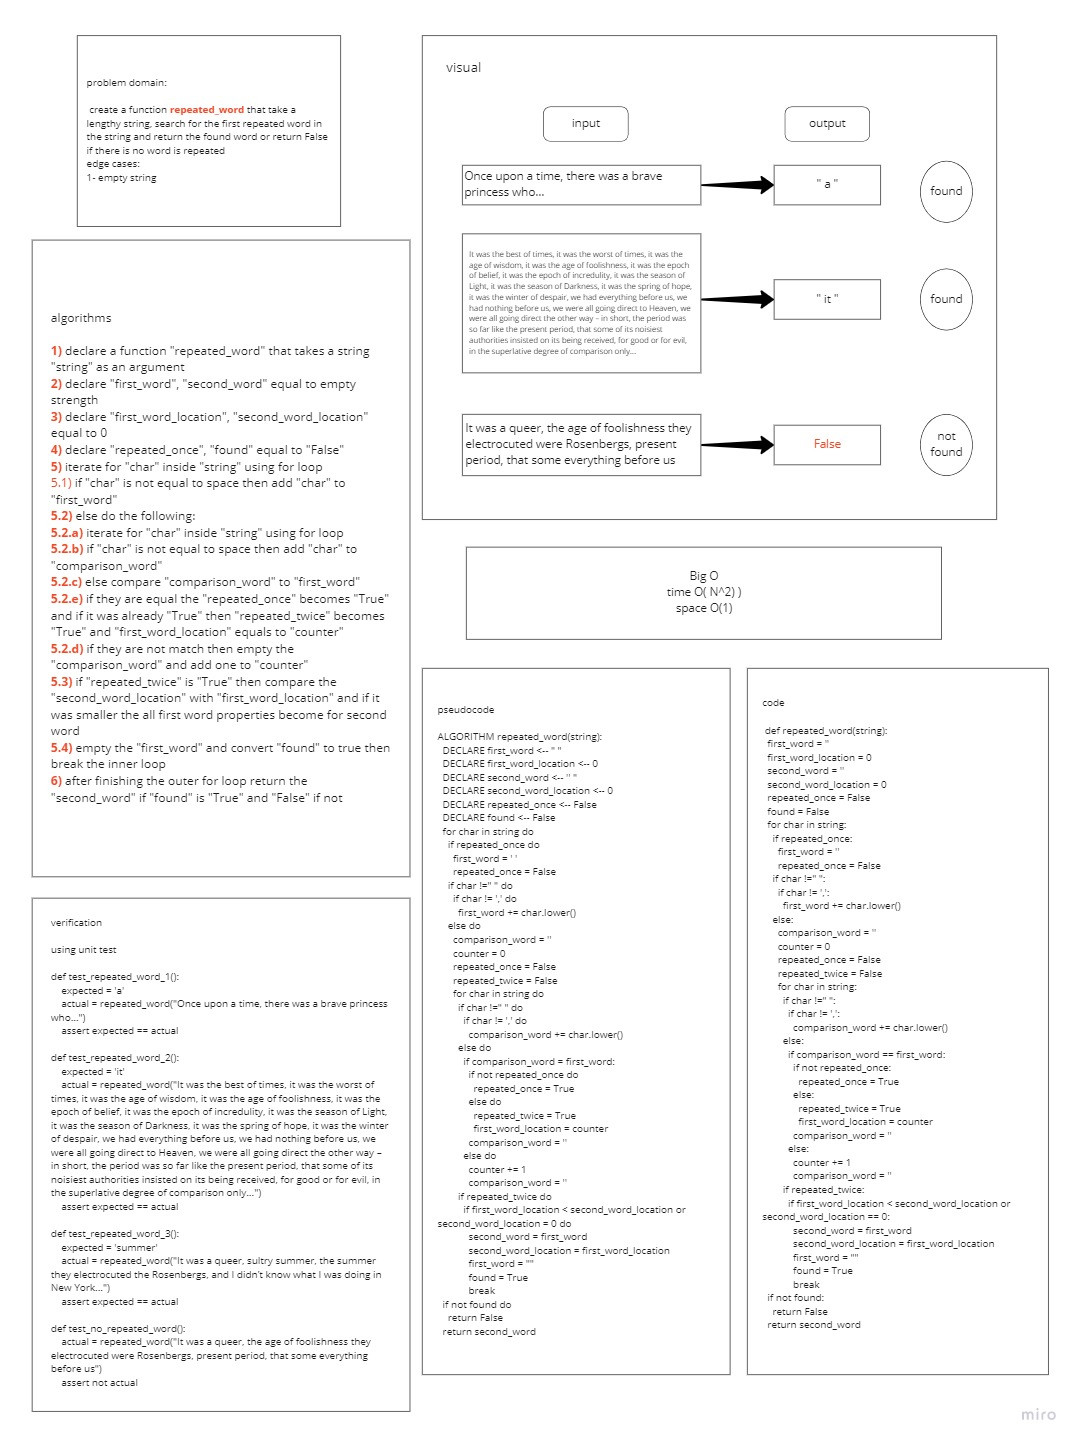
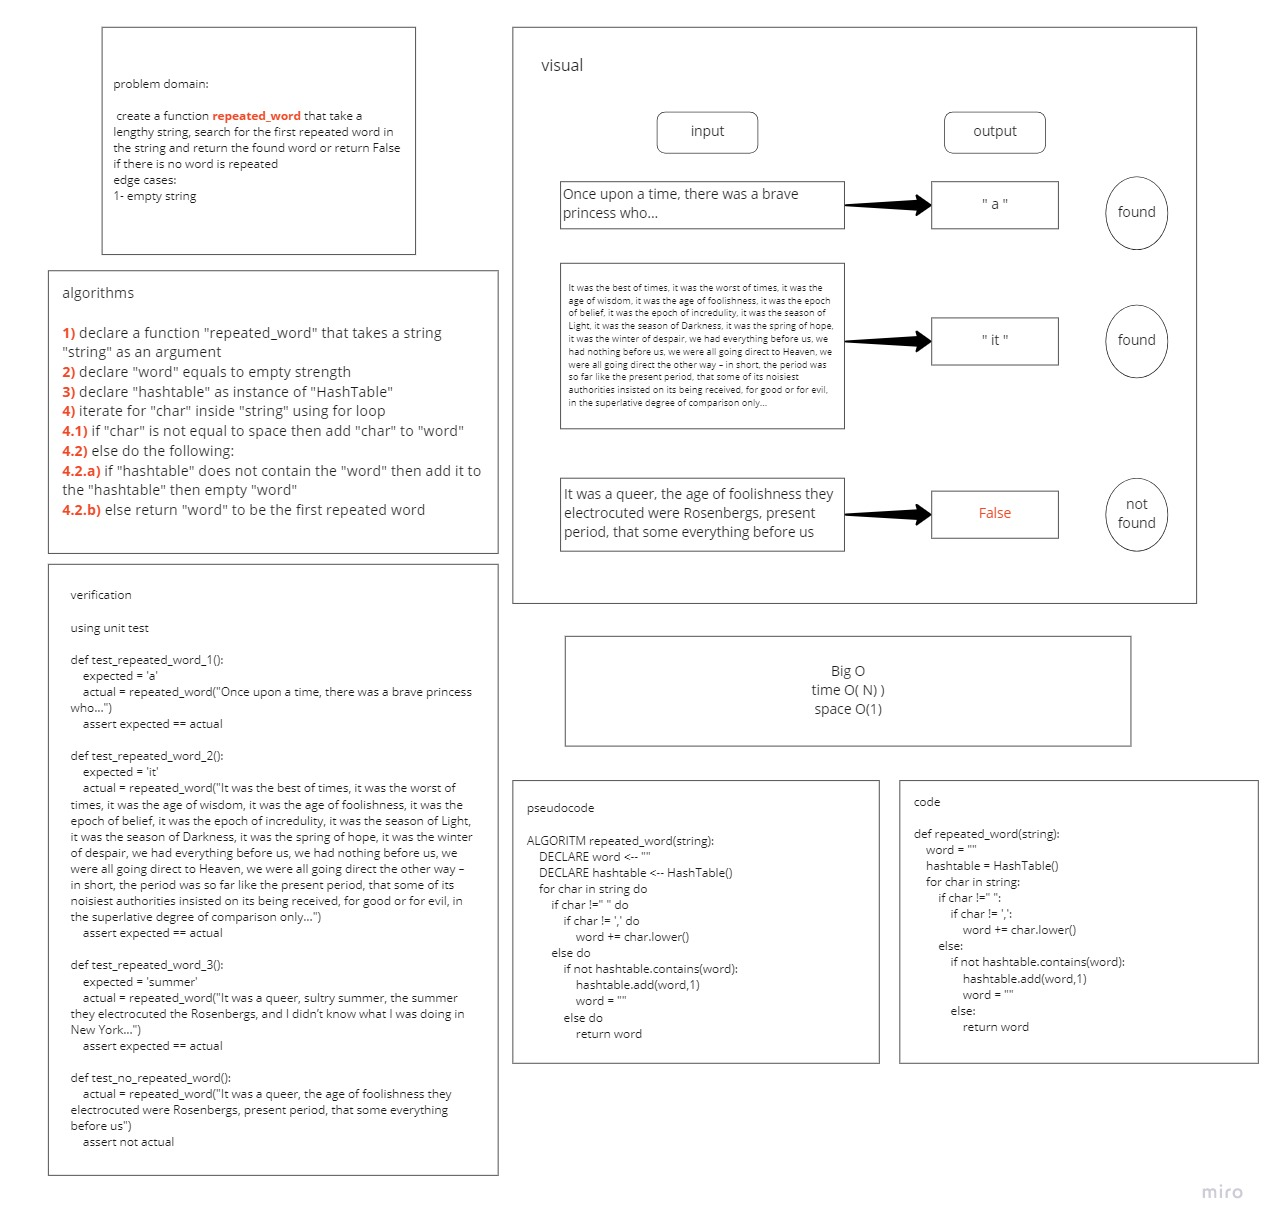
challenge solution is modified

diff --git a/python/code_challenges/repeated_word/linked_list.py b/python/code_challenges/repeated_word/linked_list.py
@@ -1,0 +1,124 @@
+class Node:
+    def __init__(self,data):
+        self.data = data
+        self.next = None
+
+    def __str__(self):
+        return f"{self.data}"
+
+class Linked_List:
+    def __init__(self):
+        self.head = None
+
+    def insert(self,value):
+        node = Node(value)
+        node.next = self.head
+        self.head = node
+        return f"{node.data} is inserted"
+
+    def includes(self,value):
+        included = False
+        current_node = self.head
+        while current_node:
+            if current_node.data[0] == value:
+                included = True
+                break
+            current_node = current_node.next
+        return included
+
+    def __str__(self):
+        if self.head:
+            if type(self.head.data) == int:
+                charr1 = "["
+                charr2 = "]"
+            else:
+                charr1 = "{"
+                charr2 = "}"
+            stored_data = "head -> "f"{charr1}{self.head.data}{charr2} "
+            current_node = self.head
+            while current_node:
+                current_node = current_node.next
+                if current_node:
+                    if type(current_node.data) == int:
+                        charr1 = "["
+                        charr2 = "]"
+                    else:
+                            charr1 = "{"
+                            charr2 = "}"
+                    stored_data += "-> "f"{charr1}{current_node}{charr2} "
+                else:
+                    stored_data += "-> X"
+        else:
+            return "head -> X"
+        return stored_data
+
+    def append(self,value):
+        if self.head is not None:
+            current = self.head
+            while (current):
+                if current.next == None:
+                    current.next = Node(value)
+                    break
+                current = current.next
+        else:
+            self.head = Node(value)
+        return value
+
+    def insert_before(self,value,new_value):
+        not_found = True
+        current = self.head
+        if current.data == value:
+            new_node = Node(new_value)
+            new_node.next = current
+            self.head = new_node
+            not_found = False
+        else:
+            while (current.next):
+                if current.next.data == value:
+                    new_node = Node(new_value)
+                    new_node.next = current.next
+                    current.next = new_node
+                    not_found = False
+                    break
+                current = current.next
+        if not_found:
+            raise ValueError
+
+    def insert_after(self,value,new_value):
+        not_found = True
+        current = self.head
+        while (current):
+            if current.data == value:
+                new_node = Node(new_value)
+                new_node.next = current.next
+                current.next = new_node
+                not_found = False
+                break
+            current = current.next
+        if not_found:
+            raise ValueError
+
+    def kth_from_end(self,k):
+        not_found = True
+        current = self.head
+        counter = 0
+        value = 0
+        while (current):
+            if current.data:
+                counter += 1
+            current = current.next
+        current = self.head
+        index_counter = counter - 1
+        for num in range(0,counter):
+            if index_counter == k:
+                not_found = False
+                value = current.data
+                break
+            else:
+                index_counter -= 1
+                current = current.next
+        if not_found:
+            return None
+        else:
+            return value
+

diff --git a/python/code_challenges/repeated_word/hashtable.py b/python/code_challenges/repeated_word/hashtable.py
@@ -1,0 +1,58 @@
+from .linked_list import Linked_List
+
+class HashTable():
+    def __init__(self,size=1024):
+        self.size = size
+        self._buckets = [None]*size
+
+    def _hash(self,key):
+        sum = 0
+        for char in key:
+            sum += ord(char)
+        hash_key = (sum*23)%(self.size)
+        return hash_key
+
+    def add(self,key,value):
+        index = self._hash(key)
+        if not self._buckets[index]:
+            self._buckets[index] = Linked_List()
+        return self._buckets[index].append([key,value])
+
+    def get(self,key):
+        index = self._hash(key)
+        if not self._buckets[index]:
+            return None
+        else:
+            current = self._buckets[index].head
+            while current:
+                if current.data[0] == key:
+                    return current.data[1]
+                current = current.next
+            return None
+
+    def contains(self,key):
+        index = self._hash(key)
+        bucket = self._buckets[index]
+        if not bucket:
+            return False
+        else:
+            if bucket.includes(key):
+                return True
+            return False
+
+if __name__ == "__main__":
+    hashtable = HashTable()
+    print(hashtable.add("ahmad", 30))
+    print(hashtable.add("silent", True))
+    print(hashtable.add("listen", 'to him'))
+    print(hashtable.get("ahmad"))
+    print(hashtable.get("silent"))
+    print(hashtable.get("listen"))
+    print(hashtable.contains("ahmad"))
+    print(hashtable.contains("silent"))
+    print(hashtable.contains("listen"))
+    print(hashtable.contains("hisham"))
+    print(hashtable._hash('house'))
+    # print(hashtable.get("hisham"))
+
+

diff --git a/python/code_challenges/repeated_word/repeated_word.py b/python/code_challenges/repeated_word/repeated_word.py
@@ -1,47 +1,19 @@
+from .hashtable import HashTable
+
 def repeated_word(string):
-  first_word = ''
-  first_word_location = 0
-  second_word = ''
-  second_word_location = 0
-  repeated_once = False
-  found = False
-  for char in string:
-    if repeated_once:
-      first_word = ''
-      repeated_once = False
-    if char !=" ":
-      if char != ',':
-        first_word += char.lower()
-    else:
-      comparison_word = ''
-      counter = 0
-      repeated_once = False
-      repeated_twice = False
-      for char in string:
+    word = ""
+    hashtable = HashTable()
+    for char in string:
         if char !=" ":
-          if char != ',':
-            comparison_word += char.lower()
+            if char != ',':
+                word += char.lower()
         else:
-          if comparison_word == first_word:
-            if not repeated_once:
-              repeated_once = True
+            if not hashtable.contains(word):
+                hashtable.add(word,1)
+                word = ""
             else:
-              repeated_twice = True
-              first_word_location = counter
-            comparison_word = ''
-          else:
-            counter += 1
-            comparison_word = ''
-        if repeated_twice:
-          if first_word_location < second_word_location or second_word_location == 0:
-            second_word = first_word
-            second_word_location = first_word_location
-            first_word = ""
-            found = True
-            break
-  if not found:
-    return False
-  return second_word
+                return word
+
 
 if __name__ == '__main__':
   print(repeated_word("Once upon a time, there was a brave princess who..."))

diff --git a/python/code_challenges/repeated_word/README.md b/python/code_challenges/repeated_word/README.md
@@ -3,7 +3,7 @@
 ## Whiteboard Process
 ![ex](img/Untitled.jpg)
 ## Approach & Efficiency
-### i created the function to iterate for each char inside the string to make a word then inside this loop iterate again to make a comparison word. for each word, it will be compared with all string words to find if it is repeated or not and find the place for the repetition
+### i created the function to iterate for each char inside the string to make a word then check if it is inside the hashtable. if it is not it will be added, else -it exists- then it will be returned as the first repeated
 Time= O(N^2)
 space = O(1)
 ## Solution
@@ -13,4 +13,4 @@ space = O(1)
 - use `pytest --verbose  tests/test_repeated_word.py`
 
 ### [code](repeated_word.py)
-### [PR](https://github.com/HishamKhalil1990/data-structures-and-algorithms/pull/46)
+### [PR](https://github.com/HishamKhalil1990/data-structures-and-algorithms/pull/47)
